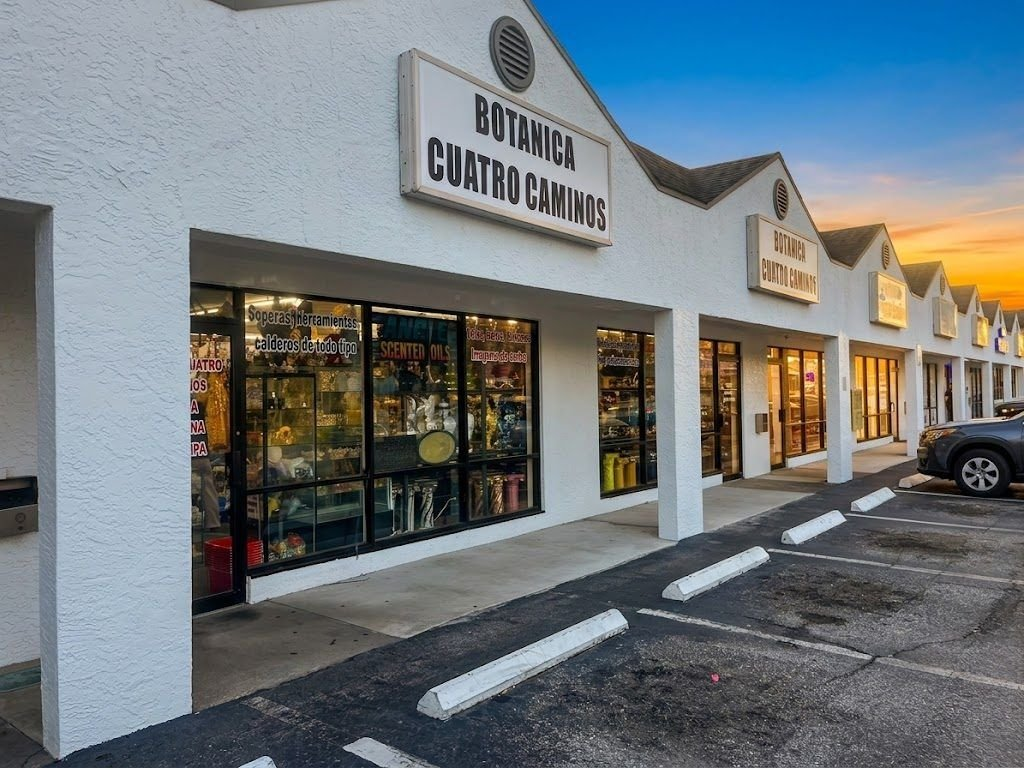
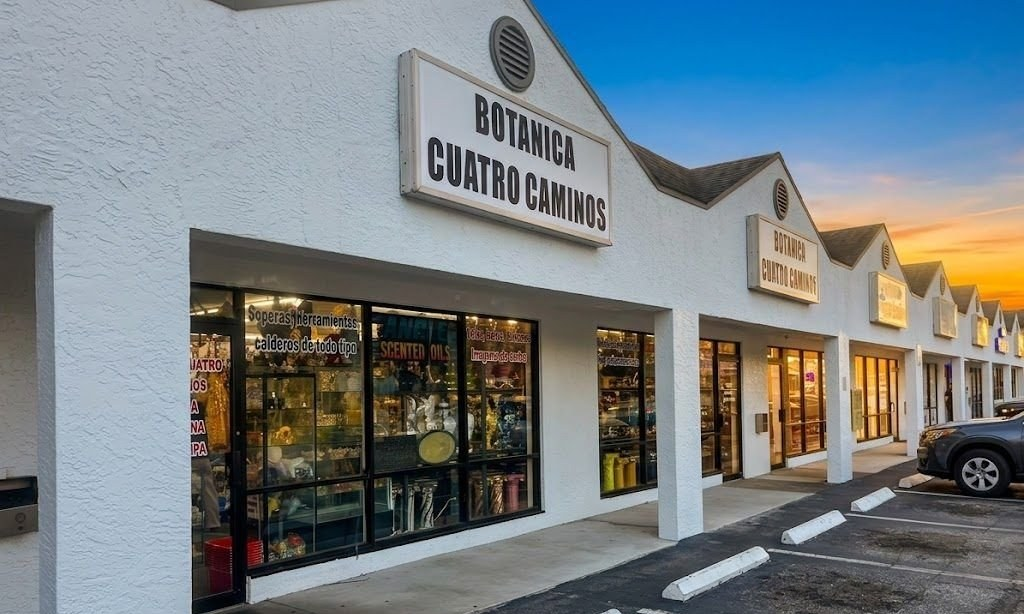
Foto principal recortada un 20% SOLO desde abajo (orden de Lester vía Monitor): 1024x768 -> 1024x614; original intacto guardado como tienda-atardecer-original.jpg

diff --git a/index.html b/index.html
@@ -109,7 +109,7 @@ body.tema-lujo{background-image:repeating-linear-gradient(45deg,rgba(201,168,106
 <div class="eyebrow" data-es="TIENDA DE ARTÍCULOS YORUBA · DESDE HACE 40 AÑOS" data-en="YORUBA RELIGIOUS GOODS STORE · 40 YEARS OF TRADITION">TIENDA DE ARTÍCULOS YORUBA · DESDE HACE 40 AÑOS</div>
 <h1 data-es="La botánica más grande de Florida, <em>cinco botánicas juntas</em>" data-en="Florida's largest botanica, <em>five botanicas together</em>">La botánica más grande de Florida, <em>cinco botánicas juntas</em></h1>
 <p data-es="Tradición, fe y conocimiento de generaciones. Todo lo que buscas para tu camino espiritual, en un solo lugar, con los mejores precios." data-en="Tradition, faith and generations of knowledge. Everything you seek for your spiritual path, in one place, at the best prices.">Tradición, fe y conocimiento de generaciones. Todo lo que buscas para tu camino espiritual, en un solo lugar, con los mejores precios.</p>
-<img width="1024" height="768" src="imgs/tienda-atardecer.jpg" alt="La tienda al atardecer">
+<img width="1024" height="614" src="imgs/tienda-atardecer.jpg" alt="La tienda al atardecer">
 <a class="btn" href="tel:+18135135344" data-es="📞 Llamar: (813) 513-5344" data-en="📞 Call: (813) 513-5344">📞 Llamar: (813) 513-5344</a>
 <a class="btn dark" href="https://www.google.com/maps/place/Bot%C3%A1nica+Cuatro+Caminos/@28.0249799,-82.4823985,1051m/data=!3m2!1e3!4b1!4m6!3m5!1s0x88c2c1fb8026bf01:0x4b5622dba6e64f7f!8m2!3d28.0249799!4d-82.4823985!16s%2Fg%2F11h1vbkqx7" data-es="📍 Cómo llegar" data-en="📍 Get directions">📍 Cómo llegar</a>
 <div class="rating"><strong>4.8 ★</strong> <span data-es="190 reseñas en Google" data-en="190 Google reviews">190 reseñas en Google</span></div>

diff --git a/oficial/index.html b/oficial/index.html
@@ -109,7 +109,7 @@ body.tema-lujo{background-image:repeating-linear-gradient(45deg,rgba(201,168,106
 <div class="eyebrow" data-es="TIENDA DE ARTÍCULOS YORUBA · DESDE HACE 40 AÑOS" data-en="YORUBA RELIGIOUS GOODS STORE · 40 YEARS OF TRADITION">TIENDA DE ARTÍCULOS YORUBA · DESDE HACE 40 AÑOS</div>
 <h1 data-es="La botánica más grande de Florida, <em>cinco botánicas juntas</em>" data-en="Florida's largest botanica, <em>five botanicas together</em>">La botánica más grande de Florida, <em>cinco botánicas juntas</em></h1>
 <p data-es="Tradición, fe y conocimiento de generaciones. Todo lo que buscas para tu camino espiritual, en un solo lugar, con los mejores precios." data-en="Tradition, faith and generations of knowledge. Everything you seek for your spiritual path, in one place, at the best prices.">Tradición, fe y conocimiento de generaciones. Todo lo que buscas para tu camino espiritual, en un solo lugar, con los mejores precios.</p>
-<img width="1024" height="768" src="imgs/tienda-atardecer.jpg" alt="La tienda al atardecer">
+<img width="1024" height="614" src="imgs/tienda-atardecer.jpg" alt="La tienda al atardecer">
 <a class="btn" href="tel:+18135135344" data-es="📞 Llamar: (813) 513-5344" data-en="📞 Call: (813) 513-5344">📞 Llamar: (813) 513-5344</a>
 <a class="btn dark" href="https://www.google.com/maps/place/Bot%C3%A1nica+Cuatro+Caminos/@28.0249799,-82.4823985,1051m/data=!3m2!1e3!4b1!4m6!3m5!1s0x88c2c1fb8026bf01:0x4b5622dba6e64f7f!8m2!3d28.0249799!4d-82.4823985!16s%2Fg%2F11h1vbkqx7" data-es="📍 Cómo llegar" data-en="📍 Get directions">📍 Cómo llegar</a>
 <div class="rating"><strong>4.8 ★</strong> <span data-es="190 reseñas en Google" data-en="190 Google reviews">190 reseñas en Google</span></div>
